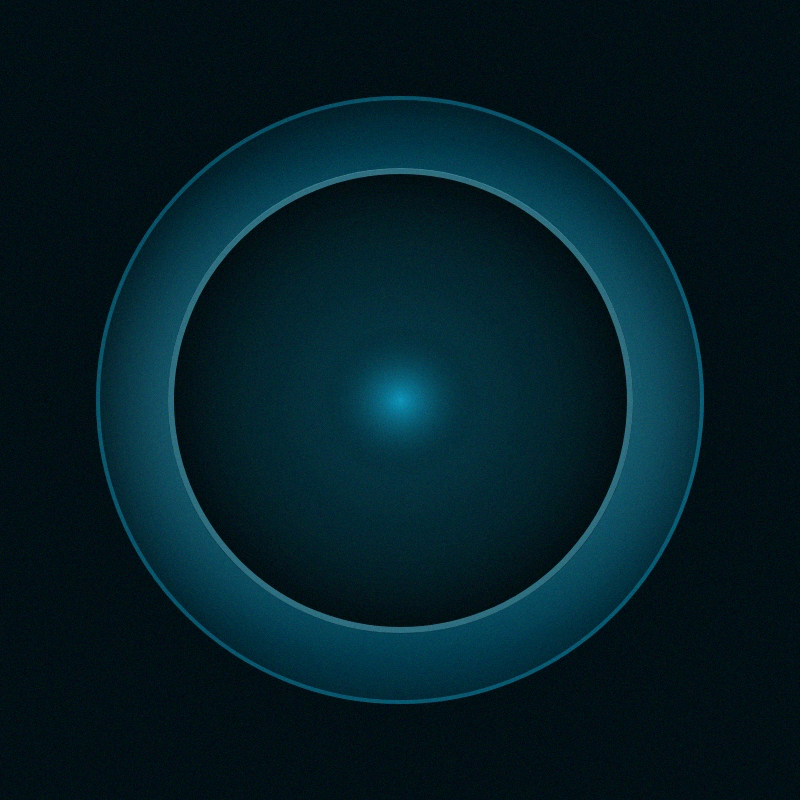
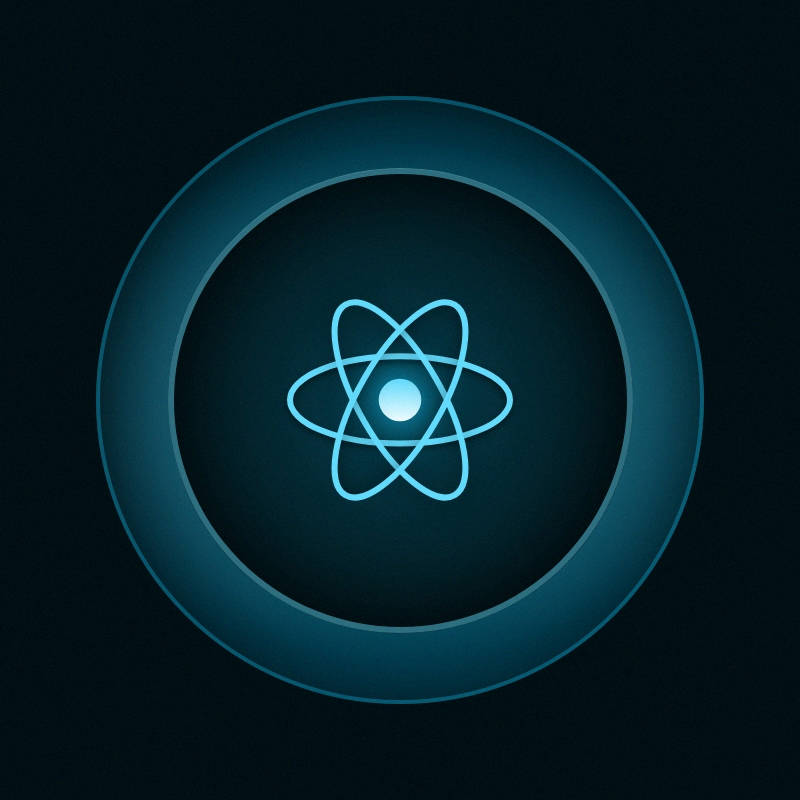
Updated React holofoil

Changed region(s): [[0.3438, 0.375, 0.6562, 0.625]]

diff --git a/src/pages/index.js b/src/pages/index.js
@@ -117,9 +117,9 @@ export default function Home(props) {
                 {/* HLOGRAMS */}
                 <div className="mt-16 flex justify-between items-center gap-6">
                     
-                        <HologramBitcoin width={220} height={220} opacity={0} />
-                        <HologramPinkFloyd width={220} height={220} opacity={0} />
-                        <HologramReact width={220} height={220} opacity={0} />
+                        <HologramBitcoin width={220} height={220} radius={20} opacity={0} />
+                        <HologramPinkFloyd width={220} height={220}  radius={20} opacity={0} />
+                        <HologramReact width={220} height={220}  radius={20} opacity={0} />
                     
                 </div>
 
@@ -204,7 +204,7 @@ export default function Home(props) {
                 </section> */}
                 
                 {/* SECTION: Projects */}
-                {/* <section className="pt-16">
+                <section className="pt-16">
                     <h2 id="projects" className="pt-8 font-semibold text-5xl text-neutral-200 text-center">Projects</h2>
                     <p className="mt-4 font-light text-neutral-400 text-center max-w-lg mx-auto"><span className="font-extrabold">Click on a project</span> below to learn about individual contributions, coding challenges, and important design considerations.</p>
                     <div className="mt-12 flex flex-wrap gap-8">
@@ -251,7 +251,7 @@ export default function Home(props) {
                             </div>
                         ))}
                     </div>
-                </section> */}
+                </section>
 
                 {/* SECTION: Tech Logos */}
                 <section className="pt-20">

diff --git a/src/components/widgets/hologram/React/HologramReact.module.css b/src/components/widgets/hologram/React/HologramReact.module.css
@@ -73,8 +73,8 @@
     background: 
         radial-gradient( 
             farthest-corner circle at var(--m-x) var(--m-y), 
-            rgba(255,255,255,0.4) 20%, 
-            rgba(255,255,255,0.3) 40%, 
+            rgba(255,255,255,0.2) 20%, 
+            rgba(255,255,255,0.1) 40%, 
             rgba(255,255,255,0) 
         100% );
 }
@@ -102,9 +102,9 @@
         repeating-linear-gradient( 
             128deg, 
             #252527 0%, 
-            hsl(180,10%,60%, 0.5) 3.8%, 
-            hsl(180,10%,60%, 0.5) 4.5%, 
-            hsl(180,10%,60%, 0.5) 5.2%, 
+            hsl(180,10%,60%, 0.1) 3.8%, 
+            hsl(180,10%,60%, 0.1) 4.5%, 
+            hsl(180,10%,60%, 0.1) 5.2%, 
             #2d2e2f 10%, 
             #2b2c2e 12% 
         ) var(--bg-x) var(--bg-y) / 300%;
@@ -112,8 +112,8 @@
         radial-gradient( 
             farthest-corner circle at var(--m-x) var(--m-y), 
             rgba(255,255,255,0.1) 12%, 
-            rgba(255,255,255,0.15) 20%, 
-            rgba(255,255,255,0.25) 120% 
+            rgba(255,255,255,0.1) 20%, 
+            rgba(255,255,255,0.1) 120% 
         ) var(--bg-x) var(--bg-y) / 300%;
     background-blend-mode: hue, hue, soft-light, soft-light;
     background: var(--pattern),var(--rainbow),var(--diagonal),var(--shade);
@@ -139,5 +139,5 @@
         0% var(--bg-y), 
         calc(var(--bg-x) * -1) calc(var(--bg-y) * -1), 
         var(--bg-x) var(--bg-y);
-    background-blend-mode: soft-light, hue, hard-light;
+    background-blend-mode: color-dodge, hue, color-dodge;
 }

diff --git a/src/components/widgets/hologram/React/HologramReact.jsx b/src/components/widgets/hologram/React/HologramReact.jsx
@@ -109,9 +109,6 @@ export default function HologramReact(props) {
                         /> 
                         
                     </div>
-                    <div className="absolute p-4 z-100 w-full h-full flex flex-col justify-center items-center">
-                        <FaReact className="w-20 h-20 text-cyan-300" />
-                    </div>
                     <div className={styles.cursourHighlight}></div>
                     <div className={styles.foil}></div>
 
